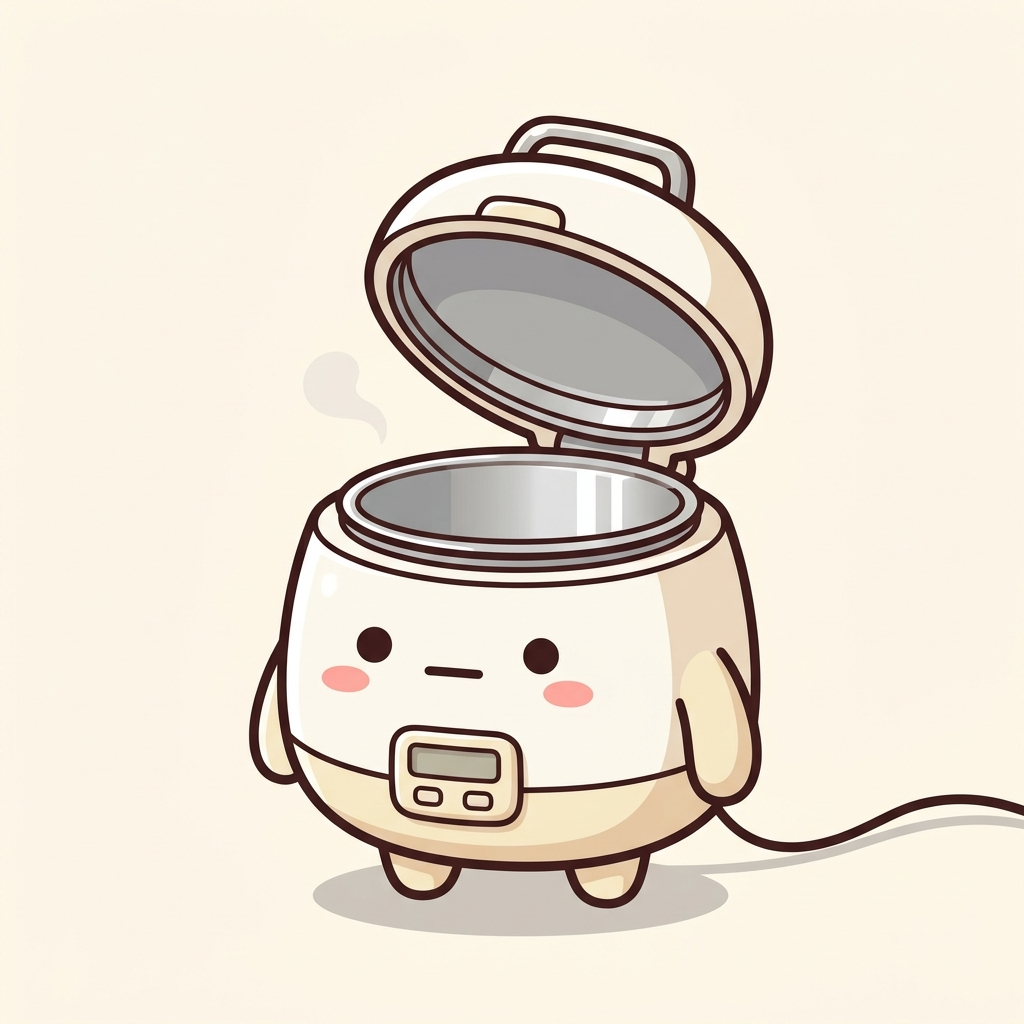
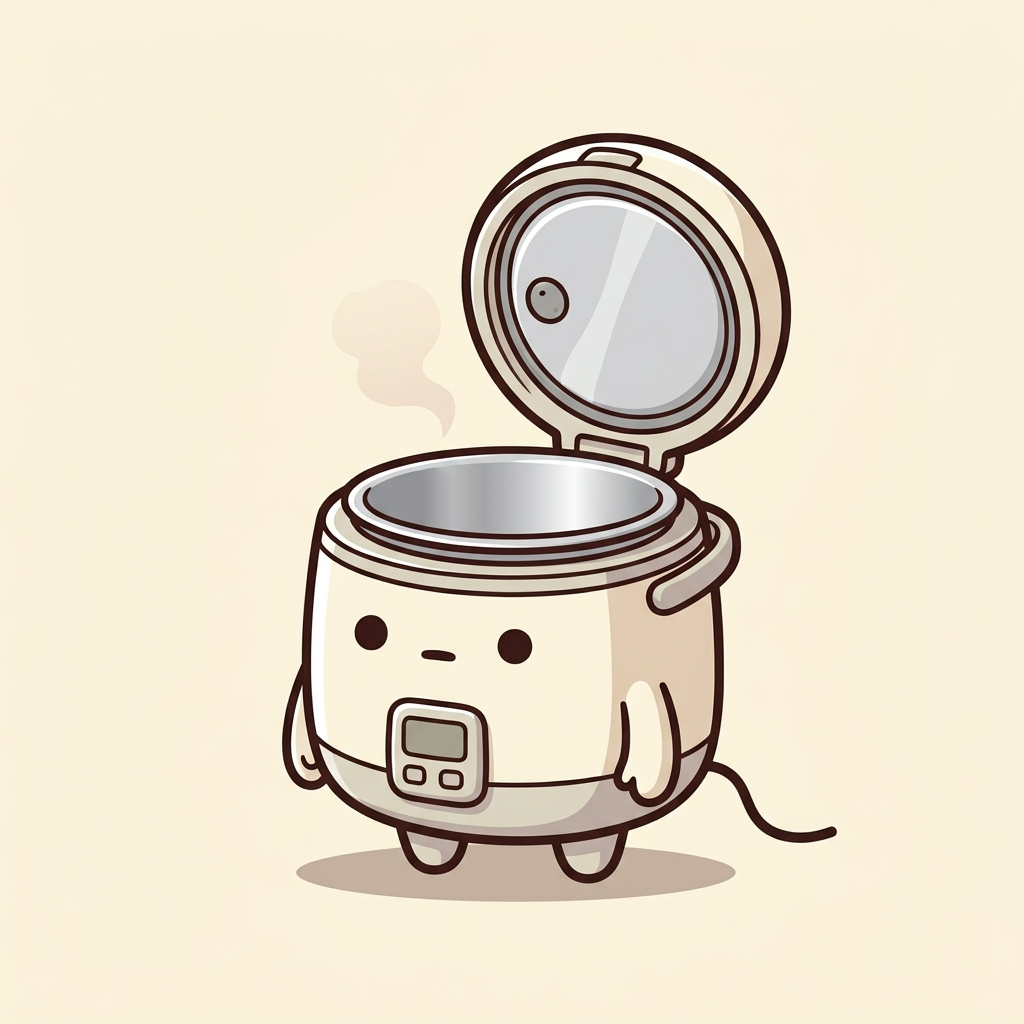
auto-commit for 21bd7e22-b4ee-4344-b58d-7a9e35ac3726

Changed region(s): [[0.2188, 0.0938, 1.0, 0.9375]]

diff --git a/backend/generate_emotion_icons.py b/backend/generate_emotion_icons.py
@@ -235,14 +235,14 @@ EMOTIONS = [
     ("foggy",        "soft pale dove grey-blue",        RICE_TINY,
      "the INSIDE of the bowl contains NO RICE OR ALMOST NO RICE — instead the bowl is FILLED WITH A THICK BILLOWING WHITE FOG CLOUD sitting inside it (a dense puffy cotton-like mist mound occupying where the rice normally would be); this fog is RISING UPWARD out of the bowl in big puffy cloud shapes that DRIFT UP AND CURL BACK DOWN over the front of the bowl, completely covering and OBSCURING the mascot's EYE AREA from above (the eyes are HIDDEN behind the fog — do not draw eyes peeking through); only the lower half of the face below the fog is visible, showing pink blush cheeks and a small worried uncertain parted-lip o-shape mouth; ONE tiny stubby arm is raised up waving through the fog in front of its face trying to swat the fog away (fingers spread trying to clear the mist), the other arm hangs down; a small question mark floats above the fog cloud; overall clear vibe of 'the fog is coming from inside me and I can't see'",
      "pale misty grey"),
-    # questioning — 問號, big question mark, curious head-tilt
-    ("questioning",  "soft warm cream beige",           RICE_FULL,
-     "the whole bowl clearly TILTED to one side (about 20 degrees) in a curious head-tilt pose; both eyes wide open in a genuinely curious puzzled look, small o-shaped mouth slightly open, both tiny stubby hands raised palms-up in a 'huh?' shrug gesture; DIRECTLY ABOVE its head floats ONE VERY LARGE bold black cartoon question mark '?' about the same size as the bowl itself (clearly the dominant symbol), plus two smaller thinner question marks floating to either side for extra emphasis",
+    # questioning — 唔知乜感覺, bowl filled with QUESTION MARKS instead of rice
+    ("questioning",  "soft warm cream beige",           RICE_TINY,
+     "the INSIDE of the bowl contains NO RICE OR ALMOST NO RICE — instead the bowl is FILLED and OVERFLOWING with a big pile of BOLD BLACK CARTOON QUESTION MARKS '?' of various sizes stuffed inside like rice grains (about 8-12 question marks piled up), with several of them sticking UP above the rim of the bowl and one or two POKING OUT AT ANGLES like they're spilling over the sides; the biggest question mark in the middle towers above the pile; the whole bowl clearly TILTED to one side (about 20 degrees) in a cute curious head-tilt pose; the mascot's own face on the front of the bowl shows a genuinely curious puzzled look — two wide round black dot eyes looking upward at the pile of question marks, a small o-shaped open mouth as if going 'huh?', pink blush cheeks, one tiny stubby hand raised palm-up in a shrug gesture; overall clear vibe of 'my head is full of question marks, I don't know what I feel'",
      "warm buttercream"),
-    # blank — 一片空白, an ELECTRIC RICE COOKER with the lid open, completely empty inside
+    # blank — 一片空白, RICE COOKER with lid open, empty inside, DEAD-INSIDE vacant face
     ("blank",        "white and cream electric RICE COOKER appliance (NOT a ceramic bowl this time — a chubby rounded rice cooker with a small square digital control panel with two tiny buttons on the front, a short black electric cord trailing off to one side, and a metal handle on top)",
      "with the DOMED COOKER LID FULLY OPEN / lifted up and tilted back behind the cooker (hinged open like an opened clam shell revealing the inside), and the inner pot COMPLETELY EMPTY — just a shiny empty metallic silver inner bowl with absolutely NO rice, NO grains, nothing at all inside (totally hollow)",
-     "the rice cooker mascot has two small round black dot eyes and small pink blush cheeks on its front body, a completely blank expressionless straight-line closed mouth, both tiny stubby arms hanging limp at its sides, two little stubby legs; a small pale wisp of steam or a tiny sigh puff drifting up from the empty inside of the cooker to emphasize its emptiness; a soft drop shadow beneath",
+     "the rice cooker mascot has an EXTREMELY BLANK DEAD-INSIDE vacant face: both eyes drawn as just TWO PLAIN TINY DOTS (or optionally two SMALL EMPTY HOLLOW CIRCLES with no pupils), staring STRAIGHT AHEAD into the void with zero expression; NO mouth at all (or optionally just three tiny horizontal dots '...' where the mouth would be, drifting slightly, like a lost thought); NO blush cheeks (skip the blush completely for maximum emptiness); both tiny stubby arms hanging perfectly limp straight down at its sides; a small pale wisp of steam or tiny sigh puff drifting up from the empty inside; overall extremely muted vacant '灵魂出竅' vibe — soulless, expressionless, void",
      "warm ivory white"),
     # indescribable — 一言難盡, rainbow aura cloak wrapping the bowl
     ("indescribable","soft creamy off-white",           RICE_FULL,
